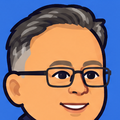
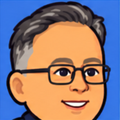
La Mocha: actualiza poses y retrato de Marcelo
Claude-Session: https://claude.ai/code/session_019FDnwE1yNBZjJsBSPwGXXr

diff --git a/la-mocha/index.html b/la-mocha/index.html
@@ -312,7 +312,7 @@ ROSTER.find(c=>c.name==="Bruno").spr="Bruno";
 /* ---------- Dibujo de luchadores ---------- */
 const HEADS=new Map();
 /* ---------- Sprites ilustrados ---------- */
-const SPRITES={"Ivan":{portrait:"personajes/Ivan/portrait.png",idle:{w:138,h:300,ax:72,src:"personajes/Ivan/idle.png"},punch:{w:167,h:300,ax:90,src:"personajes/Ivan/punch.png"},kick:{w:162,h:300,ax:36,src:"personajes/Ivan/kick.png"},hit:{w:145,h:300,ax:38,src:"personajes/Ivan/hit.png"},win:{w:134,h:300,ax:71,src:"personajes/Ivan/win.png"},crouch:{w:169,h:241,ax:92,src:"personajes/Ivan/crouch.png"},crouch_punch:{w:197,h:242,ax:105,src:"personajes/Ivan/crouch_punch.png"},crouch_kick:{w:177,h:215,ax:54,src:"personajes/Ivan/crouch_kick.png"},punch_hi:{w:182,h:300,ax:119,src:"personajes/Ivan/punch_hi.png"},upper:{w:190,h:325,ax:121,src:"personajes/Ivan/upper.png"},kick_hi:{w:176,h:300,ax:71,src:"personajes/Ivan/kick_hi.png"},block:{w:154,h:300,ax:82,src:"personajes/Ivan/block.png"}},"Marcelo":{portrait:"personajes/Marcelo/portrait.png",idle:{w:177,h:300,ax:89,src:"personajes/Marcelo/idle.png"},punch:{w:197,h:300,ax:96,src:"personajes/Marcelo/punch.png"},kick:{w:202,h:300,ax:46,src:"personajes/Marcelo/kick.png"},hit:{w:174,h:300,ax:43,src:"personajes/Marcelo/hit.png"},win:{w:177,h:300,ax:91,src:"personajes/Marcelo/win.png"},crouch:{w:204,h:239,ax:102,src:"personajes/Marcelo/crouch.png"},crouch_punch:{w:227,h:239,ax:112,src:"personajes/Marcelo/crouch_punch.png"},crouch_kick:{w:156,h:196,ax:54,src:"personajes/Marcelo/crouch_kick.png"},punch_hi:{w:206,h:302,ax:137,src:"personajes/Marcelo/punch_hi.png"},upper:{w:194,h:333,ax:129,src:"personajes/Marcelo/upper.png"},kick_hi:{w:178,h:300,ax:57,src:"personajes/Marcelo/kick_hi.png"},block:{w:152,h:300,ax:57,src:"personajes/Marcelo/block.png"}},"Bruno":{portrait:"personajes/Bruno/portrait.png",idle:{w:162,h:300,ax:85,src:"personajes/Bruno/idle.png"},punch:{w:201,h:300,ax:97,src:"personajes/Bruno/punch.png"},kick:{w:198,h:300,ax:46,src:"personajes/Bruno/kick.png"},hit:{w:167,h:300,ax:42,src:"personajes/Bruno/hit.png"},win:{w:153,h:300,ax:83,src:"personajes/Bruno/win.png"},crouch:{w:165,h:239,ax:105,src:"personajes/Bruno/crouch.png"},crouch_punch:{w:237,h:237,ax:115,src:"personajes/Bruno/crouch_punch.png"},crouch_kick:{w:175,h:198,ax:68,src:"personajes/Bruno/crouch_kick.png"},punch_hi:{w:174,h:302,ax:103,src:"personajes/Bruno/punch_hi.png"},upper:{w:194,h:337,ax:90,src:"personajes/Bruno/upper.png"},kick_hi:{w:188,h:300,ax:70,src:"personajes/Bruno/kick_hi.png"},block:{w:182,h:300,ax:105,src:"personajes/Bruno/block.png"}},"Karl":{portrait:"personajes/Karl/portrait.png",idle:{w:192,h:300,ax:88,src:"personajes/Karl/idle.png"},punch:{w:220,h:286,ax:112,src:"personajes/Karl/punch.png"},kick:{w:191,h:268,ax:34,src:"personajes/Karl/kick.png"},hit:{w:211,h:283,ax:32,src:"personajes/Karl/hit.png"},win:{w:202,h:317,ax:89,src:"personajes/Karl/win.png"},crouch:{w:178,h:233,ax:92,src:"personajes/Karl/crouch.png"},crouch_punch:{w:226,h:232,ax:120,src:"personajes/Karl/crouch_punch.png"},crouch_kick:{w:215,h:255,ax:52,src:"personajes/Karl/crouch_kick.png"},punch_hi:{w:209,h:306,ax:87,src:"personajes/Karl/punch_hi.png"},upper:{w:191,h:312,ax:85,src:"personajes/Karl/upper.png"},kick_hi:{w:192,h:340,ax:33,src:"personajes/Karl/kick_hi.png"},block:{w:190,h:295,ax:63,src:"personajes/Karl/block.png"}},"Klaus":{portrait:"personajes/Klaus/portrait.png",idle:{w:136,h:300,ax:70,src:"personajes/Klaus/idle.png"},punch:{w:158,h:300,ax:72,src:"personajes/Klaus/punch.png"},kick:{w:162,h:300,ax:37,src:"personajes/Klaus/kick.png"},hit:{w:144,h:300,ax:38,src:"personajes/Klaus/hit.png"},win:{w:128,h:300,ax:62,src:"personajes/Klaus/win.png"},crouch:{w:144,h:244,ax:94,src:"personajes/Klaus/crouch.png"},crouch_punch:{w:186,h:239,ax:86,src:"personajes/Klaus/crouch_punch.png"},crouch_kick:{w:156,h:208,ax:56,src:"personajes/Klaus/crouch_kick.png"},punch_hi:{w:186,h:302,ax:97,src:"personajes/Klaus/punch_hi.png"},upper:{w:199,h:341,ax:89,src:"personajes/Klaus/upper.png"},kick_hi:{w:168,h:300,ax:59,src:"personajes/Klaus/kick_hi.png"},block:{w:171,h:300,ax:94,src:"personajes/Klaus/block.png"}},"Felipe":{portrait:"personajes/Felipe/portrait.png",idle:{w:178,h:300,ax:101,src:"personajes/Felipe/idle.png"},punch:{w:207,h:300,ax:96,src:"personajes/Felipe/punch.png"},kick:{w:204,h:300,ax:70,src:"personajes/Felipe/kick.png"},hit:{w:187,h:300,ax:48,src:"personajes/Felipe/hit.png"},win:{w:174,h:300,ax:89,src:"personajes/Felipe/win.png"},crouch:{w:210,h:241,ax:117,src:"personajes/Felipe/crouch.png"},crouch_punch:{w:244,h:241,ax:114,src:"personajes/Felipe/crouch_punch.png"},crouch_kick:{w:201,h:200,ax:60,src:"personajes/Felipe/crouch_kick.png"},punch_hi:{w:233,h:302,ax:154,src:"personajes/Felipe/punch_hi.png"},upper:{w:218,h:341,ax:109,src:"personajes/Felipe/upper.png"},kick_hi:{w:192,h:307,ax:107,src:"personajes/Felipe/kick_hi.png"},block:{w:180,h:300,ax:100,src:"personajes/Felipe/block.png"}},"Adam":{portrait:"personajes/Adam/portrait.png",idle:{w:193,h:300,ax:99,src:"personajes/Adam/idle.png"},punch:{w:245,h:300,ax:124,src:"personajes/Adam/punch.png"},kick:{w:252,h:300,ax:80,src:"personajes/Adam/kick.png"},hit:{w:228,h:300,ax:75,src:"personajes/Adam/hit.png"},win:{w:185,h:300,ax:94,src:"personajes/Adam/win.png"},crouch:{w:217,h:236,ax:119,src:"personajes/Adam/crouch.png"},crouch_punch:{w:289,h:241,ax:146,src:"personajes/Adam/crouch_punch.png"},crouch_kick:{w:159,h:183,ax:53,src:"personajes/Adam/crouch_kick.png"},punch_hi:{w:199,h:305,ax:123,src:"personajes/Adam/punch_hi.png"},upper:{w:208,h:339,ax:127,src:"personajes/Adam/upper.png"},kick_hi:{w:202,h:307,ax:117,src:"personajes/Adam/kick_hi.png"},block:{w:180,h:300,ax:83,src:"personajes/Adam/block.png"}},"Lazza":{portrait:"personajes/Lazza/portrait.png",idle:{w:154,h:300,ax:77,src:"personajes/Lazza/idle.png"},punch:{w:186,h:300,ax:86,src:"personajes/Lazza/punch.png"},kick:{w:189,h:300,ax:53,src:"personajes/Lazza/kick.png"},hit:{w:163,h:300,ax:45,src:"personajes/Lazza/hit.png"},win:{w:147,h:300,ax:79,src:"personajes/Lazza/win.png"},crouch:{w:196,h:248,ax:104,src:"personajes/Lazza/crouch.png"},crouch_punch:{w:219,h:239,ax:102,src:"personajes/Lazza/crouch_punch.png"},crouch_kick:{w:168,h:191,ax:44,src:"personajes/Lazza/crouch_kick.png"},punch_hi:{w:216,h:300,ax:110,src:"personajes/Lazza/punch_hi.png"},upper:{w:217,h:348,ax:108,src:"personajes/Lazza/upper.png"},kick_hi:{w:217,h:309,ax:83,src:"personajes/Lazza/kick_hi.png"},block:{w:156,h:300,ax:64,src:"personajes/Lazza/block.png"}},"Espe":{portrait:"personajes/Espe/portrait.png",idle:{w:152,h:300,ax:67,src:"personajes/Espe/idle.png"},punch:{w:184,h:300,ax:86,src:"personajes/Espe/punch.png"},kick:{w:187,h:300,ax:49,src:"personajes/Espe/kick.png"},hit:{w:164,h:300,ax:49,src:"personajes/Espe/hit.png"},win:{w:126,h:300,ax:68,src:"personajes/Espe/win.png"},crouch:{w:182,h:241,ax:89,src:"personajes/Espe/crouch.png"},crouch_punch:{w:217,h:232,ax:102,src:"personajes/Espe/crouch_punch.png"},crouch_kick:{w:172,h:202,ax:55,src:"personajes/Espe/crouch_kick.png"},punch_hi:{w:215,h:302,ax:134,src:"personajes/Espe/punch_hi.png"},upper:{w:236,h:350,ax:154,src:"personajes/Espe/upper.png"},kick_hi:{w:218,h:300,ax:95,src:"personajes/Espe/kick_hi.png"},block:{w:168,h:300,ax:99,src:"personajes/Espe/block.png"}},"Marco":{portrait:"personajes/Marco/portrait.png",idle:{w:148,h:300,ax:81,src:"personajes/Marco/idle.png"},punch:{w:200,h:300,ax:107,src:"personajes/Marco/punch.png"},kick:{w:187,h:300,ax:53,src:"personajes/Marco/kick.png"},hit:{w:167,h:300,ax:49,src:"personajes/Marco/hit.png"},win:{w:163,h:300,ax:90,src:"personajes/Marco/win.png"},crouch:{w:161,h:242,ax:98,src:"personajes/Marco/crouch.png"},crouch_punch:{w:236,h:240,ax:125,src:"personajes/Marco/crouch_punch.png"},crouch_kick:{w:206,h:190,ax:58,src:"personajes/Marco/crouch_kick.png"},punch_hi:{w:229,h:306,ax:147,src:"personajes/Marco/punch_hi.png"},upper:{w:237,h:355,ax:134,src:"personajes/Marco/upper.png"},kick_hi:{w:212,h:302,ax:62,src:"personajes/Marco/kick_hi.png"},block:{w:183,h:300,ax:91,src:"personajes/Marco/block.png"}},"Maxi":{portrait:"personajes/Maxi/portrait.png",idle:{w:170,h:300,ax:87,src:"personajes/Maxi/idle.png"},punch:{w:192,h:300,ax:91,src:"personajes/Maxi/punch.png"},kick:{w:182,h:300,ax:40,src:"personajes/Maxi/kick.png"},hit:{w:175,h:300,ax:51,src:"personajes/Maxi/hit.png"},win:{w:167,h:300,ax:96,src:"personajes/Maxi/win.png"},crouch:{w:201,h:241,ax:102,src:"personajes/Maxi/crouch.png"},crouch_punch:{w:227,h:241,ax:108,src:"personajes/Maxi/crouch_punch.png"},crouch_kick:{w:164,h:201,ax:46,src:"personajes/Maxi/crouch_kick.png"},punch_hi:{w:196,h:300,ax:98,src:"personajes/Maxi/punch_hi.png"},upper:{w:224,h:349,ax:99,src:"personajes/Maxi/upper.png"},kick_hi:{w:182,h:300,ax:63,src:"personajes/Maxi/kick_hi.png"},block:{w:198,h:300,ax:109,src:"personajes/Maxi/block.png"}},"Marcelo Ig":{portrait:"personajes/Marcelo_Ig/portrait.png",idle:{w:173,h:300,ax:94,src:"personajes/Marcelo_Ig/idle.png"},punch:{w:197,h:300,ax:105,src:"personajes/Marcelo_Ig/punch.png"},kick:{w:189,h:300,ax:42,src:"personajes/Marcelo_Ig/kick.png"},hit:{w:176,h:300,ax:44,src:"personajes/Marcelo_Ig/hit.png"},win:{w:167,h:300,ax:91,src:"personajes/Marcelo_Ig/win.png"},crouch:{w:204,h:241,ax:109,src:"personajes/Marcelo_Ig/crouch.png"},crouch_punch:{w:232,h:241,ax:122,src:"personajes/Marcelo_Ig/crouch_punch.png"},crouch_kick:{w:176,h:204,ax:42,src:"personajes/Marcelo_Ig/crouch_kick.png"},punch_hi:{w:205,h:302,ax:133,src:"personajes/Marcelo_Ig/punch_hi.png"},upper:{w:217,h:355,ax:93,src:"personajes/Marcelo_Ig/upper.png"},kick_hi:{w:197,h:300,ax:60,src:"personajes/Marcelo_Ig/kick_hi.png"},block:{w:196,h:300,ax:106,src:"personajes/Marcelo_Ig/block.png"}},"Miguel":{portrait:"personajes/Miguel/portrait.png",idle:{w:173,h:300,ax:102,src:"personajes/Miguel/idle.png"},punch:{w:199,h:300,ax:106,src:"personajes/Miguel/punch.png"},kick:{w:206,h:300,ax:55,src:"personajes/Miguel/kick.png"},hit:{w:199,h:300,ax:48,src:"personajes/Miguel/hit.png"},win:{w:169,h:300,ax:93,src:"personajes/Miguel/win.png"},crouch:{w:204,h:248,ax:117,src:"personajes/Miguel/crouch.png"},crouch_punch:{w:235,h:248,ax:124,src:"personajes/Miguel/crouch_punch.png"},crouch_kick:{w:166,h:193,ax:49,src:"personajes/Miguel/crouch_kick.png"},punch_hi:{w:200,h:300,ax:106,src:"personajes/Miguel/punch_hi.png"},upper:{w:214,h:300,ax:107,src:"personajes/Miguel/upper.png"},kick_hi:{w:189,h:300,ax:57,src:"personajes/Miguel/kick_hi.png"},block:{w:176,h:300,ax:87,src:"personajes/Miguel/block.png"}}};
+const SPRITES={"Ivan":{portrait:"personajes/Ivan/portrait.png",idle:{w:138,h:300,ax:72,src:"personajes/Ivan/idle.png"},punch:{w:167,h:300,ax:90,src:"personajes/Ivan/punch.png"},kick:{w:162,h:300,ax:36,src:"personajes/Ivan/kick.png"},hit:{w:145,h:300,ax:38,src:"personajes/Ivan/hit.png"},win:{w:134,h:300,ax:71,src:"personajes/Ivan/win.png"},crouch:{w:169,h:241,ax:92,src:"personajes/Ivan/crouch.png"},crouch_punch:{w:197,h:242,ax:105,src:"personajes/Ivan/crouch_punch.png"},crouch_kick:{w:177,h:215,ax:54,src:"personajes/Ivan/crouch_kick.png"},punch_hi:{w:182,h:300,ax:119,src:"personajes/Ivan/punch_hi.png"},upper:{w:190,h:325,ax:121,src:"personajes/Ivan/upper.png"},kick_hi:{w:176,h:300,ax:71,src:"personajes/Ivan/kick_hi.png"},block:{w:154,h:300,ax:82,src:"personajes/Ivan/block.png"}},"Marcelo":{portrait:"personajes/Marcelo/portrait.png",idle:{w:184,h:300,ax:93,src:"personajes/Marcelo/idle.png"},punch:{w:211,h:297,ax:104,src:"personajes/Marcelo/punch.png"},kick:{w:193,h:295,ax:50,src:"personajes/Marcelo/kick.png"},hit:{w:221,h:282,ax:63,src:"personajes/Marcelo/hit.png"},win:{w:201,h:294,ax:93,src:"personajes/Marcelo/win.png"},crouch:{w:179,h:236,ax:97,src:"personajes/Marcelo/crouch.png"},crouch_punch:{w:219,h:235,ax:121,src:"personajes/Marcelo/crouch_punch.png"},crouch_kick:{w:214,h:239,ax:78,src:"personajes/Marcelo/crouch_kick.png"},punch_hi:{w:212,h:306,ax:90,src:"personajes/Marcelo/punch_hi.png"},upper:{w:198,h:260,ax:98,src:"personajes/Marcelo/upper.png"},kick_hi:{w:201,h:327,ax:51,src:"personajes/Marcelo/kick_hi.png"},block:{w:187,h:291,ax:82,src:"personajes/Marcelo/block.png"}},"Bruno":{portrait:"personajes/Bruno/portrait.png",idle:{w:162,h:300,ax:85,src:"personajes/Bruno/idle.png"},punch:{w:201,h:300,ax:97,src:"personajes/Bruno/punch.png"},kick:{w:198,h:300,ax:46,src:"personajes/Bruno/kick.png"},hit:{w:167,h:300,ax:42,src:"personajes/Bruno/hit.png"},win:{w:153,h:300,ax:83,src:"personajes/Bruno/win.png"},crouch:{w:165,h:239,ax:105,src:"personajes/Bruno/crouch.png"},crouch_punch:{w:237,h:237,ax:115,src:"personajes/Bruno/crouch_punch.png"},crouch_kick:{w:175,h:198,ax:68,src:"personajes/Bruno/crouch_kick.png"},punch_hi:{w:174,h:302,ax:103,src:"personajes/Bruno/punch_hi.png"},upper:{w:194,h:337,ax:90,src:"personajes/Bruno/upper.png"},kick_hi:{w:188,h:300,ax:70,src:"personajes/Bruno/kick_hi.png"},block:{w:182,h:300,ax:105,src:"personajes/Bruno/block.png"}},"Karl":{portrait:"personajes/Karl/portrait.png",idle:{w:192,h:300,ax:88,src:"personajes/Karl/idle.png"},punch:{w:220,h:286,ax:112,src:"personajes/Karl/punch.png"},kick:{w:191,h:268,ax:34,src:"personajes/Karl/kick.png"},hit:{w:211,h:283,ax:32,src:"personajes/Karl/hit.png"},win:{w:202,h:317,ax:89,src:"personajes/Karl/win.png"},crouch:{w:178,h:233,ax:92,src:"personajes/Karl/crouch.png"},crouch_punch:{w:226,h:232,ax:120,src:"personajes/Karl/crouch_punch.png"},crouch_kick:{w:215,h:255,ax:52,src:"personajes/Karl/crouch_kick.png"},punch_hi:{w:209,h:306,ax:87,src:"personajes/Karl/punch_hi.png"},upper:{w:191,h:312,ax:85,src:"personajes/Karl/upper.png"},kick_hi:{w:192,h:340,ax:33,src:"personajes/Karl/kick_hi.png"},block:{w:190,h:295,ax:63,src:"personajes/Karl/block.png"}},"Klaus":{portrait:"personajes/Klaus/portrait.png",idle:{w:136,h:300,ax:70,src:"personajes/Klaus/idle.png"},punch:{w:158,h:300,ax:72,src:"personajes/Klaus/punch.png"},kick:{w:162,h:300,ax:37,src:"personajes/Klaus/kick.png"},hit:{w:144,h:300,ax:38,src:"personajes/Klaus/hit.png"},win:{w:128,h:300,ax:62,src:"personajes/Klaus/win.png"},crouch:{w:144,h:244,ax:94,src:"personajes/Klaus/crouch.png"},crouch_punch:{w:186,h:239,ax:86,src:"personajes/Klaus/crouch_punch.png"},crouch_kick:{w:156,h:208,ax:56,src:"personajes/Klaus/crouch_kick.png"},punch_hi:{w:186,h:302,ax:97,src:"personajes/Klaus/punch_hi.png"},upper:{w:199,h:341,ax:89,src:"personajes/Klaus/upper.png"},kick_hi:{w:168,h:300,ax:59,src:"personajes/Klaus/kick_hi.png"},block:{w:171,h:300,ax:94,src:"personajes/Klaus/block.png"}},"Felipe":{portrait:"personajes/Felipe/portrait.png",idle:{w:178,h:300,ax:101,src:"personajes/Felipe/idle.png"},punch:{w:207,h:300,ax:96,src:"personajes/Felipe/punch.png"},kick:{w:204,h:300,ax:70,src:"personajes/Felipe/kick.png"},hit:{w:187,h:300,ax:48,src:"personajes/Felipe/hit.png"},win:{w:174,h:300,ax:89,src:"personajes/Felipe/win.png"},crouch:{w:210,h:241,ax:117,src:"personajes/Felipe/crouch.png"},crouch_punch:{w:244,h:241,ax:114,src:"personajes/Felipe/crouch_punch.png"},crouch_kick:{w:201,h:200,ax:60,src:"personajes/Felipe/crouch_kick.png"},punch_hi:{w:233,h:302,ax:154,src:"personajes/Felipe/punch_hi.png"},upper:{w:218,h:341,ax:109,src:"personajes/Felipe/upper.png"},kick_hi:{w:192,h:307,ax:107,src:"personajes/Felipe/kick_hi.png"},block:{w:180,h:300,ax:100,src:"personajes/Felipe/block.png"}},"Adam":{portrait:"personajes/Adam/portrait.png",idle:{w:193,h:300,ax:99,src:"personajes/Adam/idle.png"},punch:{w:245,h:300,ax:124,src:"personajes/Adam/punch.png"},kick:{w:252,h:300,ax:80,src:"personajes/Adam/kick.png"},hit:{w:228,h:300,ax:75,src:"personajes/Adam/hit.png"},win:{w:185,h:300,ax:94,src:"personajes/Adam/win.png"},crouch:{w:217,h:236,ax:119,src:"personajes/Adam/crouch.png"},crouch_punch:{w:289,h:241,ax:146,src:"personajes/Adam/crouch_punch.png"},crouch_kick:{w:159,h:183,ax:53,src:"personajes/Adam/crouch_kick.png"},punch_hi:{w:199,h:305,ax:123,src:"personajes/Adam/punch_hi.png"},upper:{w:208,h:339,ax:127,src:"personajes/Adam/upper.png"},kick_hi:{w:202,h:307,ax:117,src:"personajes/Adam/kick_hi.png"},block:{w:180,h:300,ax:83,src:"personajes/Adam/block.png"}},"Lazza":{portrait:"personajes/Lazza/portrait.png",idle:{w:154,h:300,ax:77,src:"personajes/Lazza/idle.png"},punch:{w:186,h:300,ax:86,src:"personajes/Lazza/punch.png"},kick:{w:189,h:300,ax:53,src:"personajes/Lazza/kick.png"},hit:{w:163,h:300,ax:45,src:"personajes/Lazza/hit.png"},win:{w:147,h:300,ax:79,src:"personajes/Lazza/win.png"},crouch:{w:196,h:248,ax:104,src:"personajes/Lazza/crouch.png"},crouch_punch:{w:219,h:239,ax:102,src:"personajes/Lazza/crouch_punch.png"},crouch_kick:{w:168,h:191,ax:44,src:"personajes/Lazza/crouch_kick.png"},punch_hi:{w:216,h:300,ax:110,src:"personajes/Lazza/punch_hi.png"},upper:{w:217,h:348,ax:108,src:"personajes/Lazza/upper.png"},kick_hi:{w:217,h:309,ax:83,src:"personajes/Lazza/kick_hi.png"},block:{w:156,h:300,ax:64,src:"personajes/Lazza/block.png"}},"Espe":{portrait:"personajes/Espe/portrait.png",idle:{w:152,h:300,ax:67,src:"personajes/Espe/idle.png"},punch:{w:184,h:300,ax:86,src:"personajes/Espe/punch.png"},kick:{w:187,h:300,ax:49,src:"personajes/Espe/kick.png"},hit:{w:164,h:300,ax:49,src:"personajes/Espe/hit.png"},win:{w:126,h:300,ax:68,src:"personajes/Espe/win.png"},crouch:{w:182,h:241,ax:89,src:"personajes/Espe/crouch.png"},crouch_punch:{w:217,h:232,ax:102,src:"personajes/Espe/crouch_punch.png"},crouch_kick:{w:172,h:202,ax:55,src:"personajes/Espe/crouch_kick.png"},punch_hi:{w:215,h:302,ax:134,src:"personajes/Espe/punch_hi.png"},upper:{w:236,h:350,ax:154,src:"personajes/Espe/upper.png"},kick_hi:{w:218,h:300,ax:95,src:"personajes/Espe/kick_hi.png"},block:{w:168,h:300,ax:99,src:"personajes/Espe/block.png"}},"Marco":{portrait:"personajes/Marco/portrait.png",idle:{w:148,h:300,ax:81,src:"personajes/Marco/idle.png"},punch:{w:200,h:300,ax:107,src:"personajes/Marco/punch.png"},kick:{w:187,h:300,ax:53,src:"personajes/Marco/kick.png"},hit:{w:167,h:300,ax:49,src:"personajes/Marco/hit.png"},win:{w:163,h:300,ax:90,src:"personajes/Marco/win.png"},crouch:{w:161,h:242,ax:98,src:"personajes/Marco/crouch.png"},crouch_punch:{w:236,h:240,ax:125,src:"personajes/Marco/crouch_punch.png"},crouch_kick:{w:206,h:190,ax:58,src:"personajes/Marco/crouch_kick.png"},punch_hi:{w:229,h:306,ax:147,src:"personajes/Marco/punch_hi.png"},upper:{w:237,h:355,ax:134,src:"personajes/Marco/upper.png"},kick_hi:{w:212,h:302,ax:62,src:"personajes/Marco/kick_hi.png"},block:{w:183,h:300,ax:91,src:"personajes/Marco/block.png"}},"Maxi":{portrait:"personajes/Maxi/portrait.png",idle:{w:170,h:300,ax:87,src:"personajes/Maxi/idle.png"},punch:{w:192,h:300,ax:91,src:"personajes/Maxi/punch.png"},kick:{w:182,h:300,ax:40,src:"personajes/Maxi/kick.png"},hit:{w:175,h:300,ax:51,src:"personajes/Maxi/hit.png"},win:{w:167,h:300,ax:96,src:"personajes/Maxi/win.png"},crouch:{w:201,h:241,ax:102,src:"personajes/Maxi/crouch.png"},crouch_punch:{w:227,h:241,ax:108,src:"personajes/Maxi/crouch_punch.png"},crouch_kick:{w:164,h:201,ax:46,src:"personajes/Maxi/crouch_kick.png"},punch_hi:{w:196,h:300,ax:98,src:"personajes/Maxi/punch_hi.png"},upper:{w:224,h:349,ax:99,src:"personajes/Maxi/upper.png"},kick_hi:{w:182,h:300,ax:63,src:"personajes/Maxi/kick_hi.png"},block:{w:198,h:300,ax:109,src:"personajes/Maxi/block.png"}},"Marcelo Ig":{portrait:"personajes/Marcelo_Ig/portrait.png",idle:{w:173,h:300,ax:94,src:"personajes/Marcelo_Ig/idle.png"},punch:{w:197,h:300,ax:105,src:"personajes/Marcelo_Ig/punch.png"},kick:{w:189,h:300,ax:42,src:"personajes/Marcelo_Ig/kick.png"},hit:{w:176,h:300,ax:44,src:"personajes/Marcelo_Ig/hit.png"},win:{w:167,h:300,ax:91,src:"personajes/Marcelo_Ig/win.png"},crouch:{w:204,h:241,ax:109,src:"personajes/Marcelo_Ig/crouch.png"},crouch_punch:{w:232,h:241,ax:122,src:"personajes/Marcelo_Ig/crouch_punch.png"},crouch_kick:{w:176,h:204,ax:42,src:"personajes/Marcelo_Ig/crouch_kick.png"},punch_hi:{w:205,h:302,ax:133,src:"personajes/Marcelo_Ig/punch_hi.png"},upper:{w:217,h:355,ax:93,src:"personajes/Marcelo_Ig/upper.png"},kick_hi:{w:197,h:300,ax:60,src:"personajes/Marcelo_Ig/kick_hi.png"},block:{w:196,h:300,ax:106,src:"personajes/Marcelo_Ig/block.png"}},"Miguel":{portrait:"personajes/Miguel/portrait.png",idle:{w:173,h:300,ax:102,src:"personajes/Miguel/idle.png"},punch:{w:199,h:300,ax:106,src:"personajes/Miguel/punch.png"},kick:{w:206,h:300,ax:55,src:"personajes/Miguel/kick.png"},hit:{w:199,h:300,ax:48,src:"personajes/Miguel/hit.png"},win:{w:169,h:300,ax:93,src:"personajes/Miguel/win.png"},crouch:{w:204,h:248,ax:117,src:"personajes/Miguel/crouch.png"},crouch_punch:{w:235,h:248,ax:124,src:"personajes/Miguel/crouch_punch.png"},crouch_kick:{w:166,h:193,ax:49,src:"personajes/Miguel/crouch_kick.png"},punch_hi:{w:200,h:300,ax:106,src:"personajes/Miguel/punch_hi.png"},upper:{w:214,h:300,ax:107,src:"personajes/Miguel/upper.png"},kick_hi:{w:189,h:300,ax:57,src:"personajes/Miguel/kick_hi.png"},block:{w:176,h:300,ax:87,src:"personajes/Miguel/block.png"}}};
 for(const name in SPRITES){const S=SPRITES[name];let n=0,need=0;
   for(const k in S){if(k==="portrait"){const im=new Image();im.onload=()=>{S.pimg=im;HEADS.clear();try{ROSTER.forEach((ch,i)=>{const c=document.querySelector("#card"+i+" canvas");if(c)portrait(c,ch)})}catch(e){}};im.src=S.portrait;continue}
     need++;const m=S[k];if(k.startsWith("crouch"))m.bent=true;const im=new Image();im.onload=()=>{m.img=im;if(++n===need){S.ok=true;HEADS.clear&&HEADS.clear();try{ROSTER.forEach((ch,i)=>{const c=document.querySelector("#card"+i+" canvas");if(c)portrait(c,ch)})}catch(e){}}};im.src=m.src}}
